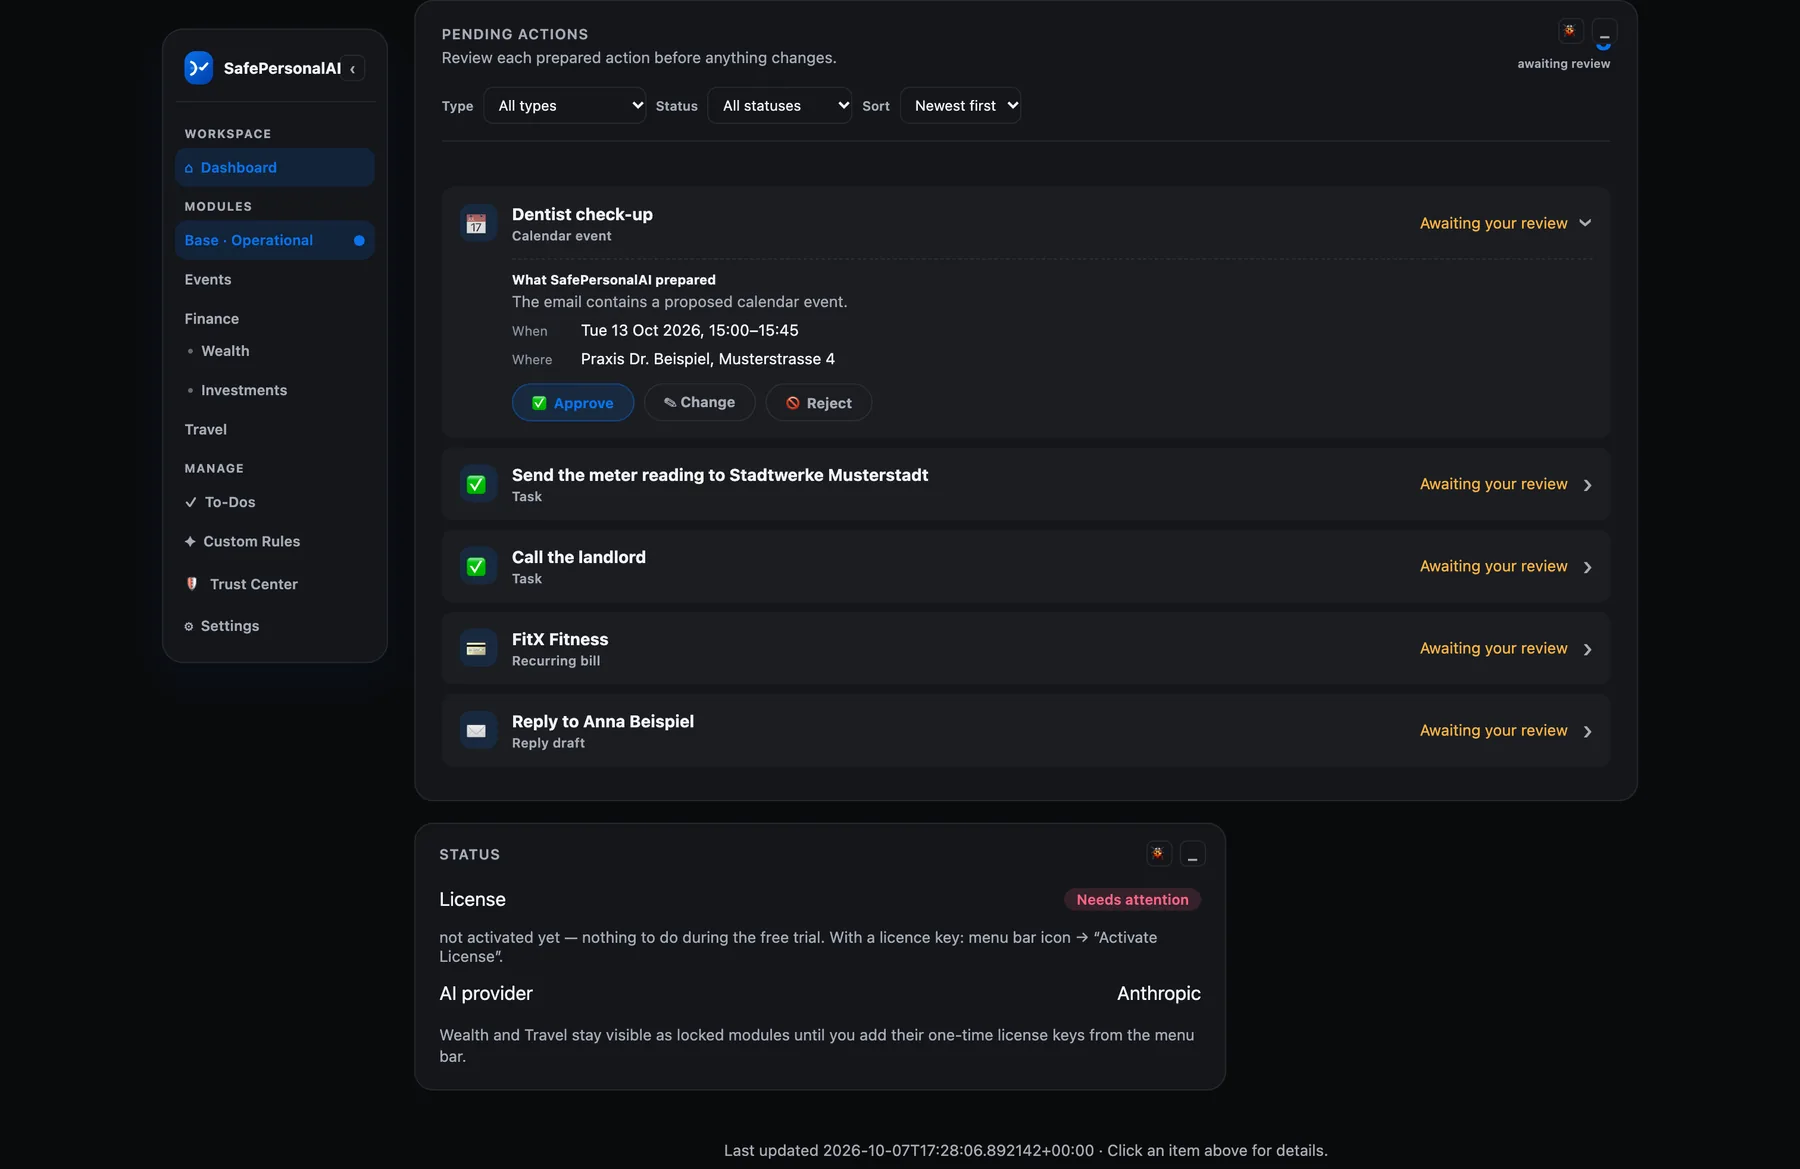
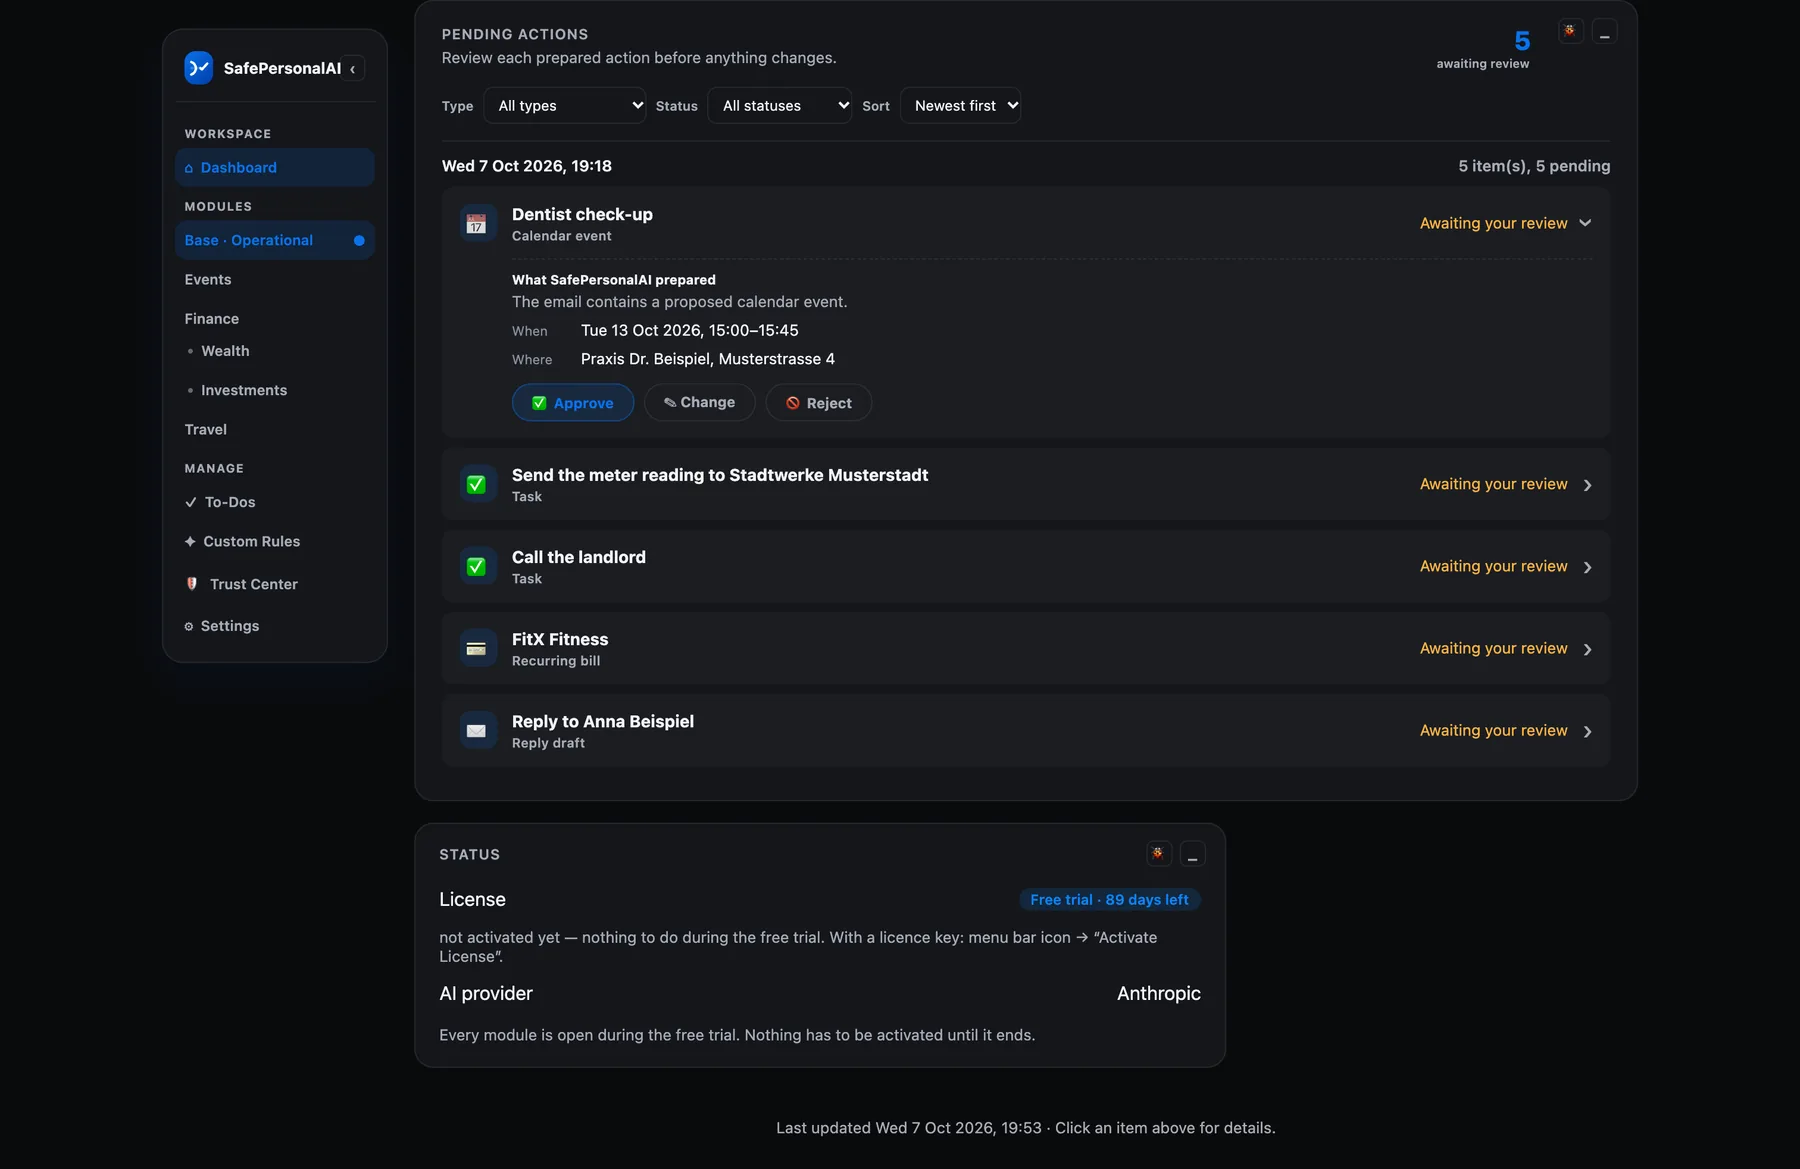
Home page: the two app films sit under the five screens
The Wealth and Investments films were only on the Wealth page; the home page
now shows both, side by side, right after the real-app section. They start a
little earlier while scrolling into view. The approval-list image is taken
again from the app with its readable date heading.

Claude-Session: https://claude.ai/code/session_01Uyj11VopkXcpJskHAGziAj

diff --git a/src/views/HomeView.tsx b/src/views/HomeView.tsx
@@ -10,6 +10,7 @@ import TrustSection from "@/components/TrustSection";
 import FAQSection from "@/components/FAQSection";
 import Footer from "@/components/Footer";
 import AppShowcase from "@/components/AppShowcase";
+import AppVideo from "@/components/AppVideo";
 import ScrollBackdrop from "@/components/ScrollBackdrop";
 import { showcase } from "@/i18n/showcase";
 import JsonLd from "@/components/JsonLd";
@@ -42,6 +43,13 @@ export default function HomeView({ lang, dict }: { lang: Locale; dict: Dictionar
         <BoundarySection t={dict.boundary} />
         <ProductUseCasesSection t={dict.useCases} />
         <AppShowcase t={showcase[lang]} />
+        {/* The same app in motion: two short films of the Wealth and Investments pages. */}
+        <section className="pb-24">
+          <div className="mx-auto grid max-w-3xl gap-12 px-6 sm:grid-cols-2">
+            <AppVideo name="wealth" lang={lang} label={dict.wealth.readsTitle} note={dict.wealth.readsTitle} />
+            <AppVideo name="investments" lang={lang} label={dict.wealth.investTitle} note={dict.wealth.investTitle} />
+          </div>
+        </section>
         <ModulesPricing lang={lang} dict={dict} />
         <TrustSection t={dict.trust} />
         <FAQSection t={dict.faq} />

diff --git a/src/components/AppVideo.tsx b/src/components/AppVideo.tsx
@@ -35,7 +35,7 @@ export default function AppVideo({
         if (entry.isIntersecting) video.play().catch(() => {});
         else video.pause();
       },
-      { threshold: 0.35 },
+      { threshold: 0.2 },
     );
     obs.observe(video);
     return () => obs.disconnect();
